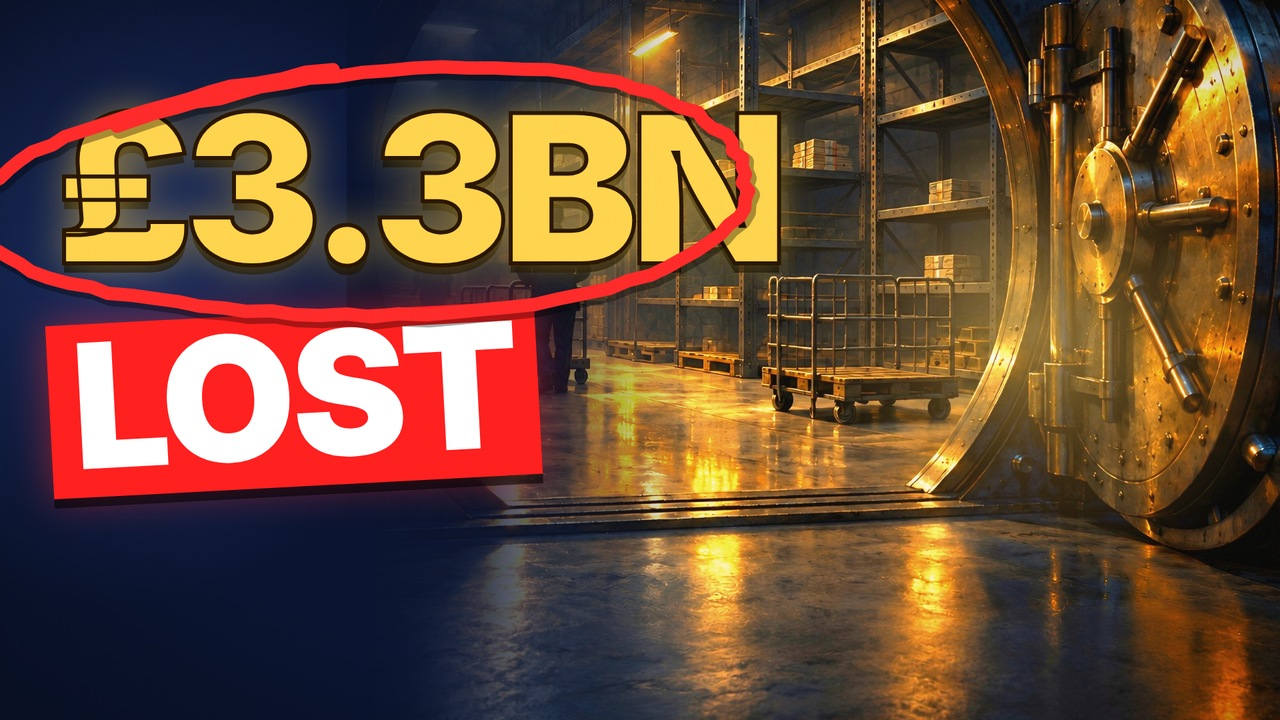
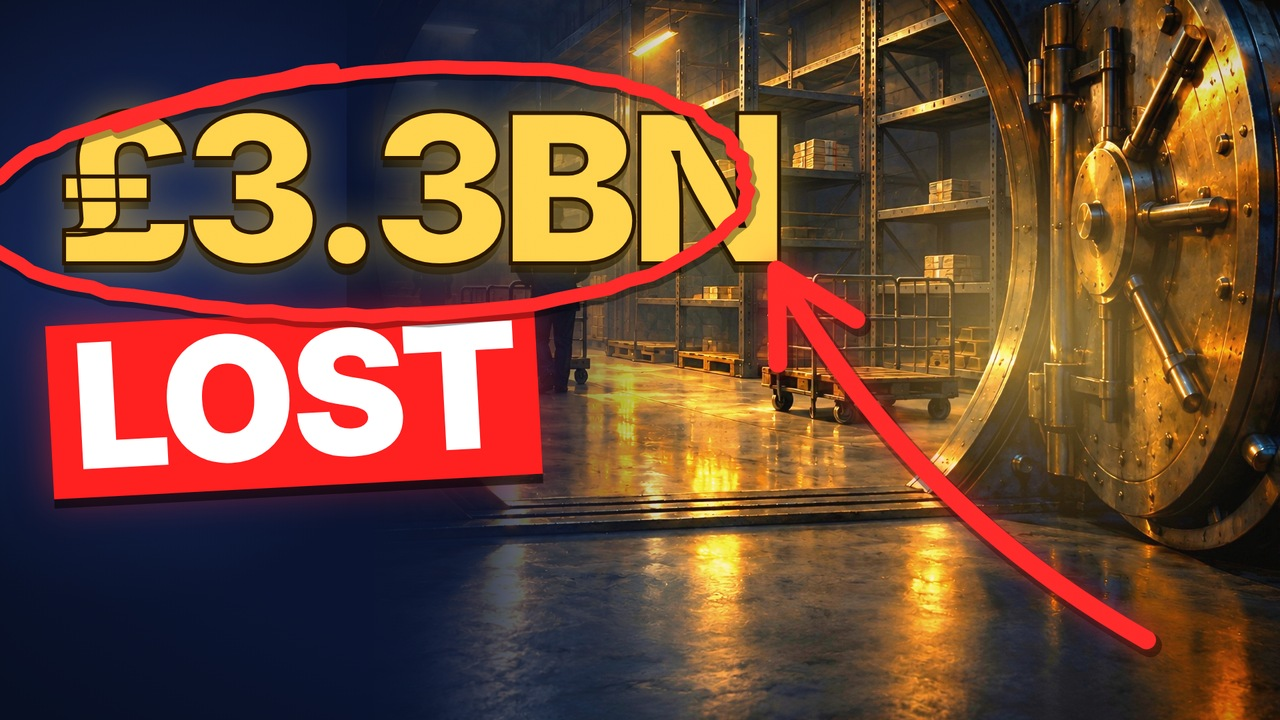
mm ep02: thumbnail B2 + red marker arrow to the circle
Claude-Session: https://claude.ai/code/session_01G4Vac2BgNoNTabVHFMKncR

Changed region(s): [[0.5938, 0.3361, 0.9062, 0.9167]]

diff --git a/money-mirage/episodes/ep02/thumbs/vb2/index.html b/money-mirage/episodes/ep02/thumbs/vb2/index.html
@@ -15,6 +15,6 @@ svg.ov{position:absolute;left:0;top:0;pointer-events:none}
 
 </style></head><body>
 <div id="root" data-composition-id="main" data-start="0" data-width="1920" data-height="1080" data-duration="1">
-<div class="bgl"></div><img id="hero" src="assets/vault_pop.jpg"><div class="glow"></div><div class="fade"></div><div class="vig"></div><div class="big">£3.3BN</div><div class="tag">LOST</div><svg class="ov" width="1920" height="1080"><path d="M175.4,189.3 L203.0,179.7 L230.8,170.2 L262.5,162.1 L292.1,153.1 L329.6,148.2 L359.8,139.0 L391.7,130.0 L428.4,124.4 L464.4,117.2 L503.8,115.0 L542.0,108.8 L581.6,106.0 L622.1,102.0 L662.9,100.2 L701.9,102.1 L742.4,102.0 L781.8,103.8 L823.3,104.4 L858.9,109.6 L888.9,117.8 L925.7,122.1 L949.5,132.3 L980.4,139.2 L999.4,150.3 L1018.9,160.6 L1046.9,168.4 L1055.3,181.1 L1069.0,192.2 L1090.0,201.8 L1098.4,213.7 L1098.8,226.3 L1113.9,237.2 L1113.1,249.7 L1118.1,261.7 L1113.4,274.2 L1123.0,286.4 L1117.6,299.1 L1117.0,312.1 L1109.3,325.1 L1092.7,337.5 L1081.5,350.6 L1064.3,363.1 L1046.0,375.7 L1024.0,387.8 L1001.9,400.2 L977.1,412.4 L941.4,421.2 L913.7,433.0 L875.7,440.7 L838.3,448.3 L802.2,456.8 L760.6,461.1 L719.5,464.9 L679.3,468.9 L639.0,472.2 L598.0,470.8 L558.3,475.3 L519.9,471.0 L480.4,473.2 L442.2,472.0 L408.3,466.3 L368.7,467.0 L335.3,462.0 L299.0,459.2 L268.6,452.7 L234.9,448.2 L201.0,443.3 L161.6,440.0 L138.0,430.6 L102.6,424.8 L72.7,416.8 L46.7,407.4 L30.7,395.8 L10.4,384.9 L-8.6,373.6 L-25.2,361.6 L-25.8,347.8 L-39.8,335.3 L-41.9,321.6 L-40.1,307.8 L-22.6,293.8 L-24.5,280.1 L0.3,267.0 L13.7,253.8 L29.7,240.9 L47.8,228.2 L78.5,217.3 L97.5,204.9 L128.7,194.9 L159.2,185.1 L188.4,175.3 L219.7,166.2 L251.6,157.5 L283.1,148.6 L313.0,138.4 L346.2,129.2 L386.1,124.9 L423.3,118.4 L458.9,108.2 L499.8,104.4" fill="none" stroke="rgba(0,0,0,.35)" stroke-width="26" stroke-linecap="round" stroke-linejoin="round" transform="translate(4,6)"/><path d="M175.4,189.3 L203.0,179.7 L230.8,170.2 L262.5,162.1 L292.1,153.1 L329.6,148.2 L359.8,139.0 L391.7,130.0 L428.4,124.4 L464.4,117.2 L503.8,115.0 L542.0,108.8 L581.6,106.0 L622.1,102.0 L662.9,100.2 L701.9,102.1 L742.4,102.0 L781.8,103.8 L823.3,104.4 L858.9,109.6 L888.9,117.8 L925.7,122.1 L949.5,132.3 L980.4,139.2 L999.4,150.3 L1018.9,160.6 L1046.9,168.4 L1055.3,181.1 L1069.0,192.2 L1090.0,201.8 L1098.4,213.7 L1098.8,226.3 L1113.9,237.2 L1113.1,249.7 L1118.1,261.7 L1113.4,274.2 L1123.0,286.4 L1117.6,299.1 L1117.0,312.1 L1109.3,325.1 L1092.7,337.5 L1081.5,350.6 L1064.3,363.1 L1046.0,375.7 L1024.0,387.8 L1001.9,400.2 L977.1,412.4 L941.4,421.2 L913.7,433.0 L875.7,440.7 L838.3,448.3 L802.2,456.8 L760.6,461.1 L719.5,464.9 L679.3,468.9 L639.0,472.2 L598.0,470.8 L558.3,475.3 L519.9,471.0 L480.4,473.2 L442.2,472.0 L408.3,466.3 L368.7,467.0 L335.3,462.0 L299.0,459.2 L268.6,452.7 L234.9,448.2 L201.0,443.3 L161.6,440.0 L138.0,430.6 L102.6,424.8 L72.7,416.8 L46.7,407.4 L30.7,395.8 L10.4,384.9 L-8.6,373.6 L-25.2,361.6 L-25.8,347.8 L-39.8,335.3 L-41.9,321.6 L-40.1,307.8 L-22.6,293.8 L-24.5,280.1 L0.3,267.0 L13.7,253.8 L29.7,240.9 L47.8,228.2 L78.5,217.3 L97.5,204.9 L128.7,194.9 L159.2,185.1 L188.4,175.3 L219.7,166.2 L251.6,157.5 L283.1,148.6 L313.0,138.4 L346.2,129.2 L386.1,124.9 L423.3,118.4 L458.9,108.2 L499.8,104.4" fill="none" stroke="#FF2A2A" stroke-width="20" stroke-linecap="round" stroke-linejoin="round"/></svg>
+<div class="bgl"></div><img id="hero" src="assets/vault_pop.jpg"><div class="glow"></div><div class="fade"></div><div class="vig"></div><div class="big">£3.3BN</div><div class="tag">LOST</div><svg class="ov" width="1920" height="1080"><path d="M175.4,189.3 L203.0,179.7 L230.8,170.2 L262.5,162.1 L292.1,153.1 L329.6,148.2 L359.8,139.0 L391.7,130.0 L428.4,124.4 L464.4,117.2 L503.8,115.0 L542.0,108.8 L581.6,106.0 L622.1,102.0 L662.9,100.2 L701.9,102.1 L742.4,102.0 L781.8,103.8 L823.3,104.4 L858.9,109.6 L888.9,117.8 L925.7,122.1 L949.5,132.3 L980.4,139.2 L999.4,150.3 L1018.9,160.6 L1046.9,168.4 L1055.3,181.1 L1069.0,192.2 L1090.0,201.8 L1098.4,213.7 L1098.8,226.3 L1113.9,237.2 L1113.1,249.7 L1118.1,261.7 L1113.4,274.2 L1123.0,286.4 L1117.6,299.1 L1117.0,312.1 L1109.3,325.1 L1092.7,337.5 L1081.5,350.6 L1064.3,363.1 L1046.0,375.7 L1024.0,387.8 L1001.9,400.2 L977.1,412.4 L941.4,421.2 L913.7,433.0 L875.7,440.7 L838.3,448.3 L802.2,456.8 L760.6,461.1 L719.5,464.9 L679.3,468.9 L639.0,472.2 L598.0,470.8 L558.3,475.3 L519.9,471.0 L480.4,473.2 L442.2,472.0 L408.3,466.3 L368.7,467.0 L335.3,462.0 L299.0,459.2 L268.6,452.7 L234.9,448.2 L201.0,443.3 L161.6,440.0 L138.0,430.6 L102.6,424.8 L72.7,416.8 L46.7,407.4 L30.7,395.8 L10.4,384.9 L-8.6,373.6 L-25.2,361.6 L-25.8,347.8 L-39.8,335.3 L-41.9,321.6 L-40.1,307.8 L-22.6,293.8 L-24.5,280.1 L0.3,267.0 L13.7,253.8 L29.7,240.9 L47.8,228.2 L78.5,217.3 L97.5,204.9 L128.7,194.9 L159.2,185.1 L188.4,175.3 L219.7,166.2 L251.6,157.5 L283.1,148.6 L313.0,138.4 L346.2,129.2 L386.1,124.9 L423.3,118.4 L458.9,108.2 L499.8,104.4" fill="none" stroke="rgba(0,0,0,.35)" stroke-width="26" stroke-linecap="round" stroke-linejoin="round" transform="translate(4,6)"/><path d="M175.4,189.3 L203.0,179.7 L230.8,170.2 L262.5,162.1 L292.1,153.1 L329.6,148.2 L359.8,139.0 L391.7,130.0 L428.4,124.4 L464.4,117.2 L503.8,115.0 L542.0,108.8 L581.6,106.0 L622.1,102.0 L662.9,100.2 L701.9,102.1 L742.4,102.0 L781.8,103.8 L823.3,104.4 L858.9,109.6 L888.9,117.8 L925.7,122.1 L949.5,132.3 L980.4,139.2 L999.4,150.3 L1018.9,160.6 L1046.9,168.4 L1055.3,181.1 L1069.0,192.2 L1090.0,201.8 L1098.4,213.7 L1098.8,226.3 L1113.9,237.2 L1113.1,249.7 L1118.1,261.7 L1113.4,274.2 L1123.0,286.4 L1117.6,299.1 L1117.0,312.1 L1109.3,325.1 L1092.7,337.5 L1081.5,350.6 L1064.3,363.1 L1046.0,375.7 L1024.0,387.8 L1001.9,400.2 L977.1,412.4 L941.4,421.2 L913.7,433.0 L875.7,440.7 L838.3,448.3 L802.2,456.8 L760.6,461.1 L719.5,464.9 L679.3,468.9 L639.0,472.2 L598.0,470.8 L558.3,475.3 L519.9,471.0 L480.4,473.2 L442.2,472.0 L408.3,466.3 L368.7,467.0 L335.3,462.0 L299.0,459.2 L268.6,452.7 L234.9,448.2 L201.0,443.3 L161.6,440.0 L138.0,430.6 L102.6,424.8 L72.7,416.8 L46.7,407.4 L30.7,395.8 L10.4,384.9 L-8.6,373.6 L-25.2,361.6 L-25.8,347.8 L-39.8,335.3 L-41.9,321.6 L-40.1,307.8 L-22.6,293.8 L-24.5,280.1 L0.3,267.0 L13.7,253.8 L29.7,240.9 L47.8,228.2 L78.5,217.3 L97.5,204.9 L128.7,194.9 L159.2,185.1 L188.4,175.3 L219.7,166.2 L251.6,157.5 L283.1,148.6 L313.0,138.4 L346.2,129.2 L386.1,124.9 L423.3,118.4 L458.9,108.2 L499.8,104.4" fill="none" stroke="#FF2A2A" stroke-width="20" stroke-linecap="round" stroke-linejoin="round"/><path d="M1720,960 Q1365,760 1165,405 M1284,479 L1165,405 L1167,545" fill="none" stroke="rgba(0,0,0,.45)" stroke-width="36" stroke-linecap="round" stroke-linejoin="round" transform="translate(5,8)"/><path d="M1720,960 Q1365,760 1165,405 M1284,479 L1165,405 L1167,545" fill="none" stroke="#FF2A2A" stroke-width="28" stroke-linecap="round" stroke-linejoin="round" style="filter:drop-shadow(0 0 18px rgba(255,40,40,.6))"/></svg>
 <div class="grain"></div></div>
 <script>document.fonts.ready.then(()=>{window.__timelines=window.__timelines||{};window.__timelines.main=gsap.timeline({paused:true}).to({},{duration:1});});</script></body></html>

diff --git a/money-mirage/episodes/ep02/thumbs/make.py b/money-mirage/episodes/ep02/thumbs/make.py
@@ -28,6 +28,18 @@ svg.ov{position:absolute;left:0;top:0;pointer-events:none}
 <script>document.fonts.ready.then(()=>{window.__timelines=window.__timelines||{};window.__timelines.main=gsap.timeline({paused:true}).to({},{duration:1});});</script></body></html>'''
 
 
+
+def marker_arrow(x0, y0, x1, y1, bend=-120, w=24, color='#FF2A2A'):
+    """Hand-drawn marker arrow: a curved shaft from (x0,y0) to (x1,y1) with a two-stroke head."""
+    import math
+    mx, my = (x0 + x1) / 2, (y0 + y1) / 2; dx, dy = x1 - x0, y1 - y0; L = math.hypot(dx, dy)
+    cx, cy = mx - dy / L * bend, my + dx / L * bend
+    ang = math.atan2(y1 - cy, x1 - cx); h = 140
+    p1 = (x1 - h * math.cos(ang - .5), y1 - h * math.sin(ang - .5)); p2 = (x1 - h * math.cos(ang + .5), y1 - h * math.sin(ang + .5))
+    d = f'M{x0},{y0} Q{cx:.0f},{cy:.0f} {x1},{y1} M{p1[0]:.0f},{p1[1]:.0f} L{x1},{y1} L{p2[0]:.0f},{p2[1]:.0f}'
+    return (f'<path d="{d}" fill="none" stroke="rgba(0,0,0,.45)" stroke-width="{w+8}" stroke-linecap="round" stroke-linejoin="round" transform="translate(5,8)"/>'
+            f'<path d="{d}" fill="none" stroke="{color}" stroke-width="{w}" stroke-linecap="round" stroke-linejoin="round" style="filter:drop-shadow(0 0 18px rgba(255,40,40,.6))"/>')
+
 V = {}
 SIDE = '''
 #hero{position:absolute;left:560px;top:0;width:1360px;height:1080px;object-fit:cover;object-position:%POS%}
@@ -52,7 +64,7 @@ POP = '''
 .vig{position:absolute;inset:0;background:radial-gradient(ellipse 85% 85% at 55% 50%,rgba(0,0,0,0) 55%,rgba(0,0,0,.45) 100%)}
 '''
 V['b2'] = dict(css=POP, body='<div class="bgl"></div><img id="hero" src="assets/vault_pop.jpg"><div class="glow"></div><div class="fade"></div><div class="vig"></div><div class="big">£3.3BN</div><div class="tag">LOST</div><svg class="ov" width="1920" height="1080">%C%</svg>',
-    svg=scribble(570, 290, 560, 180, -3, 5, 1.12, 20, '#FF2A2A'), treat=[], assets=['vault_pop.jpg'])
+    svg=scribble(570, 290, 560, 180, -3, 5, 1.12, 20, '#FF2A2A') + marker_arrow(1720, 960, 1165, 405, bend=-110, w=28), treat=[], assets=['vault_pop.jpg'])
 V['c'] = mk('treasury_courtyard__film.jpg', '55% 50%', 'BROKEN', 'IN HOURS', 250, 170, 420, tag=False, circ=(1500, 690, 130, 210, 4, 7, 1.12, 14))
 for k, v in V.items():
     d = os.path.join(HERE, 'v' + k); os.makedirs(d + '/assets', exist_ok=True)
